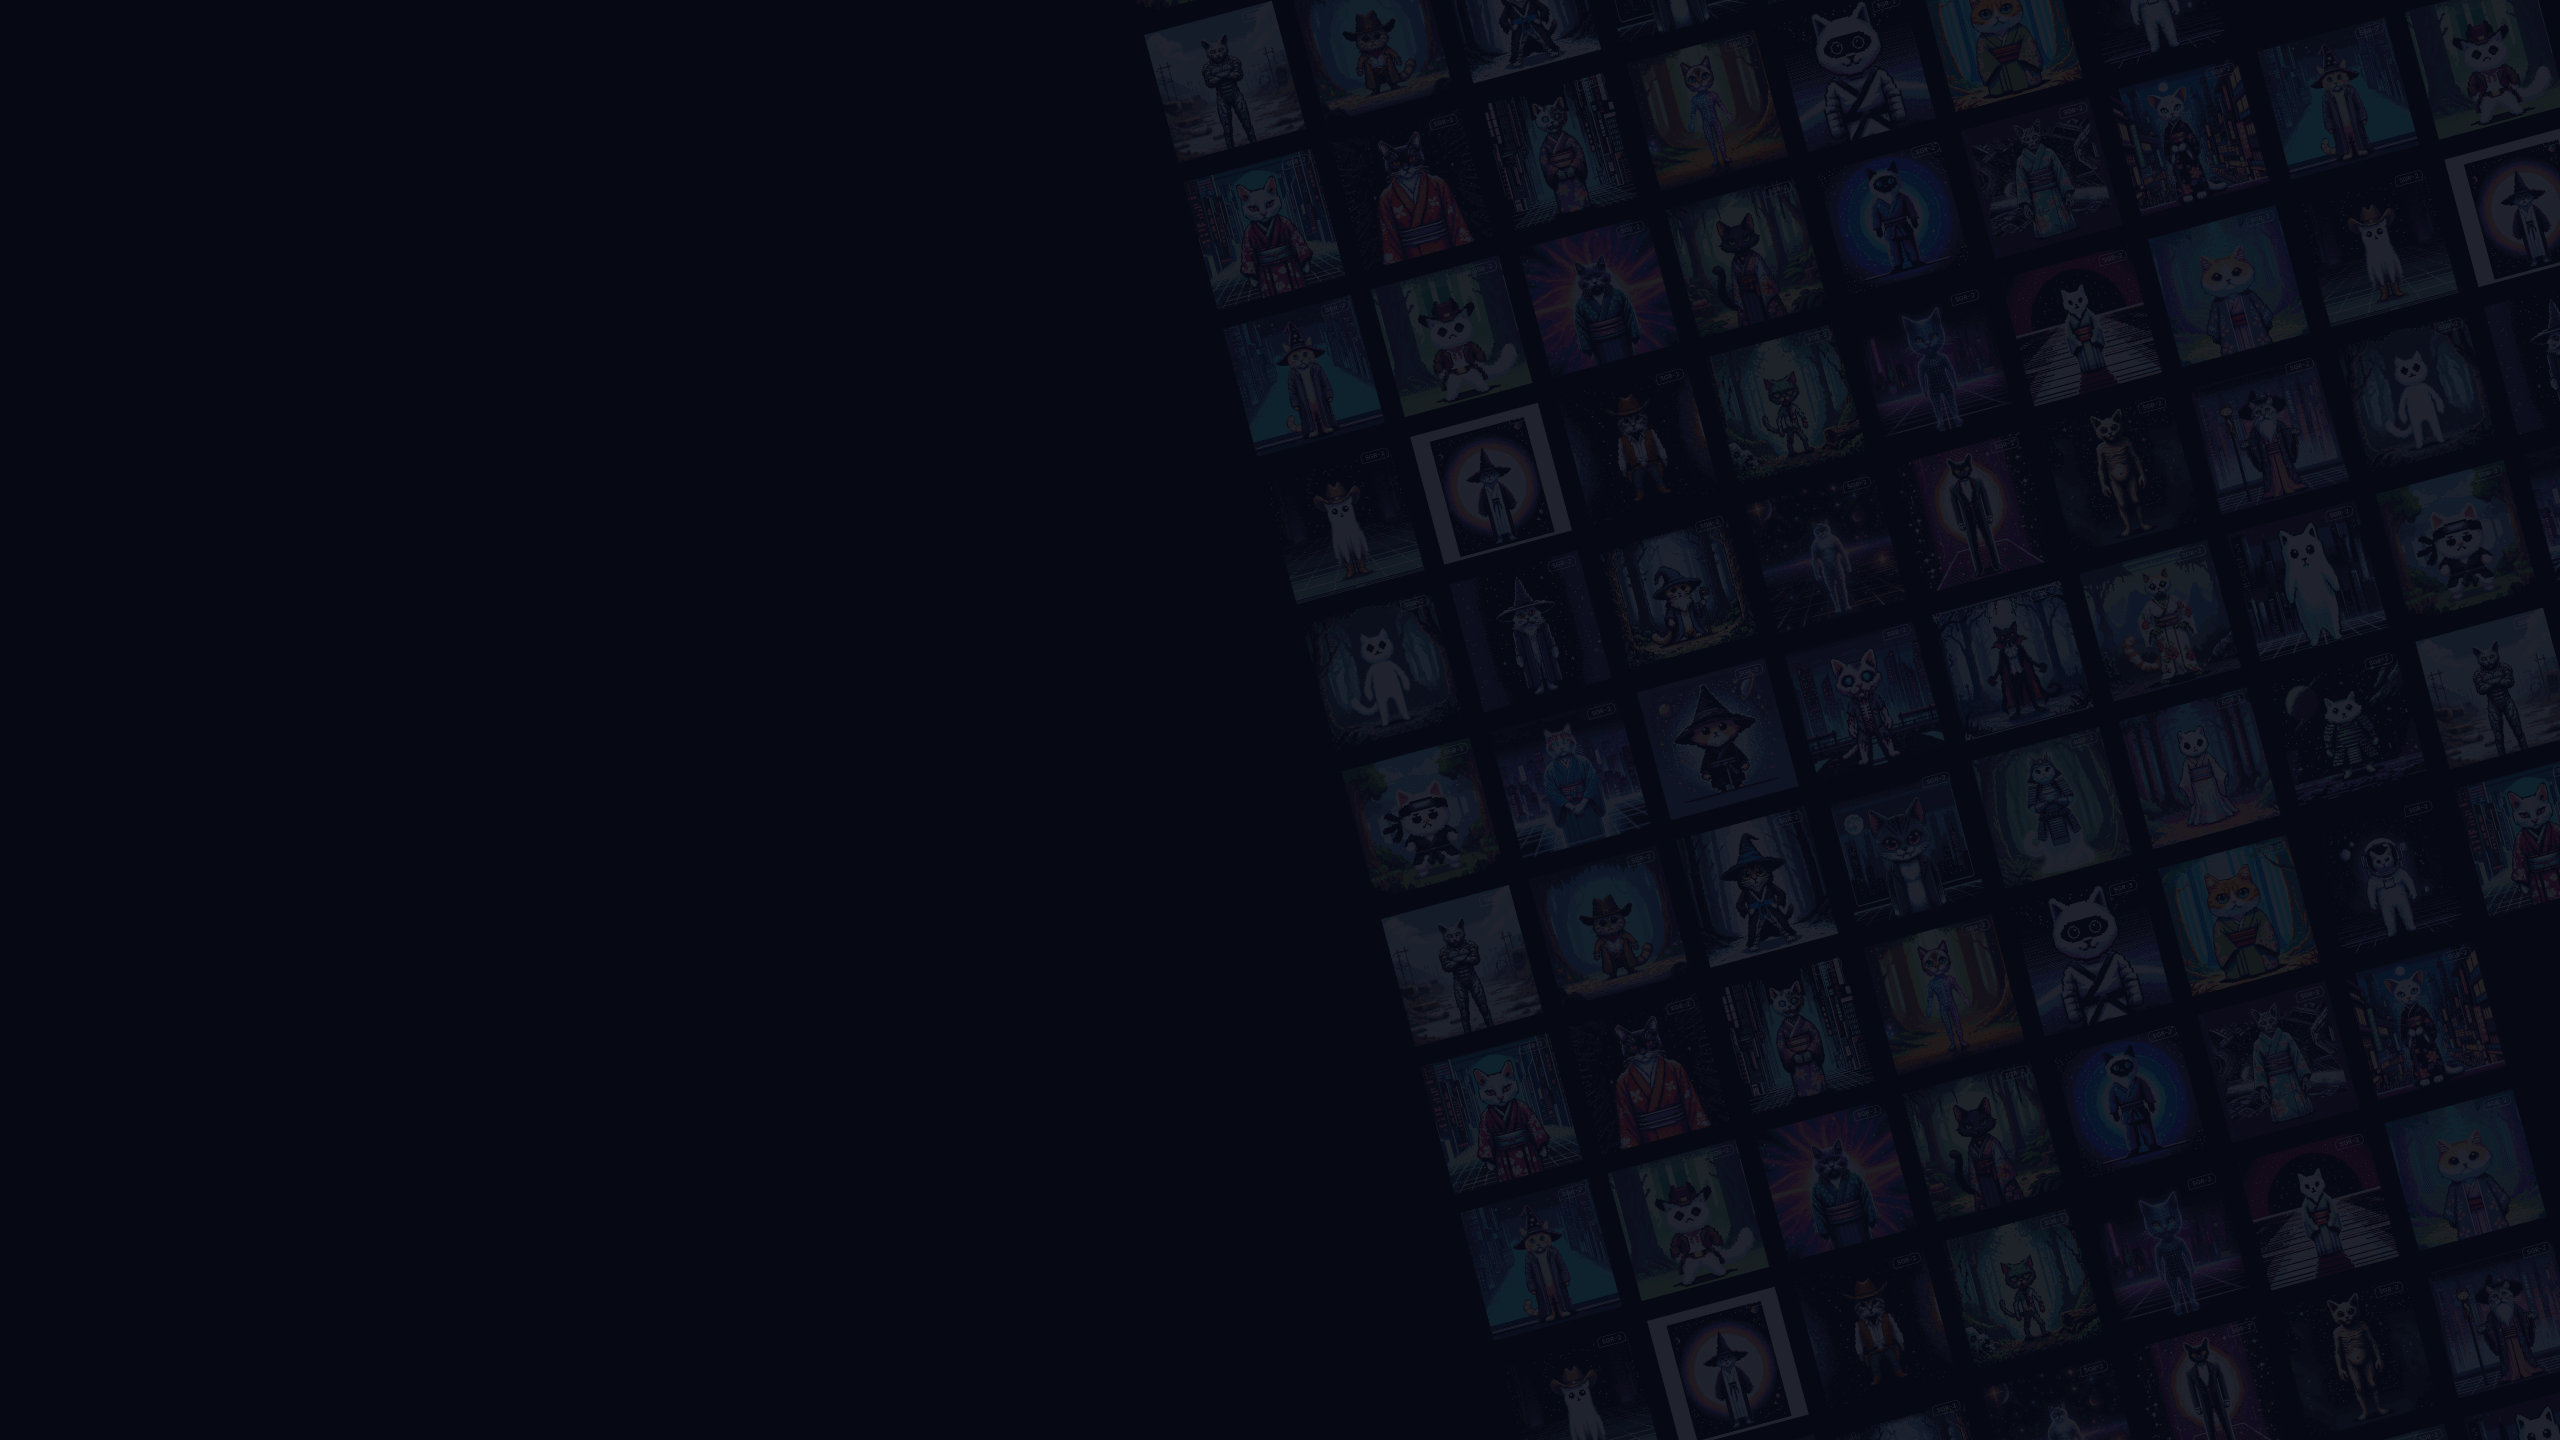
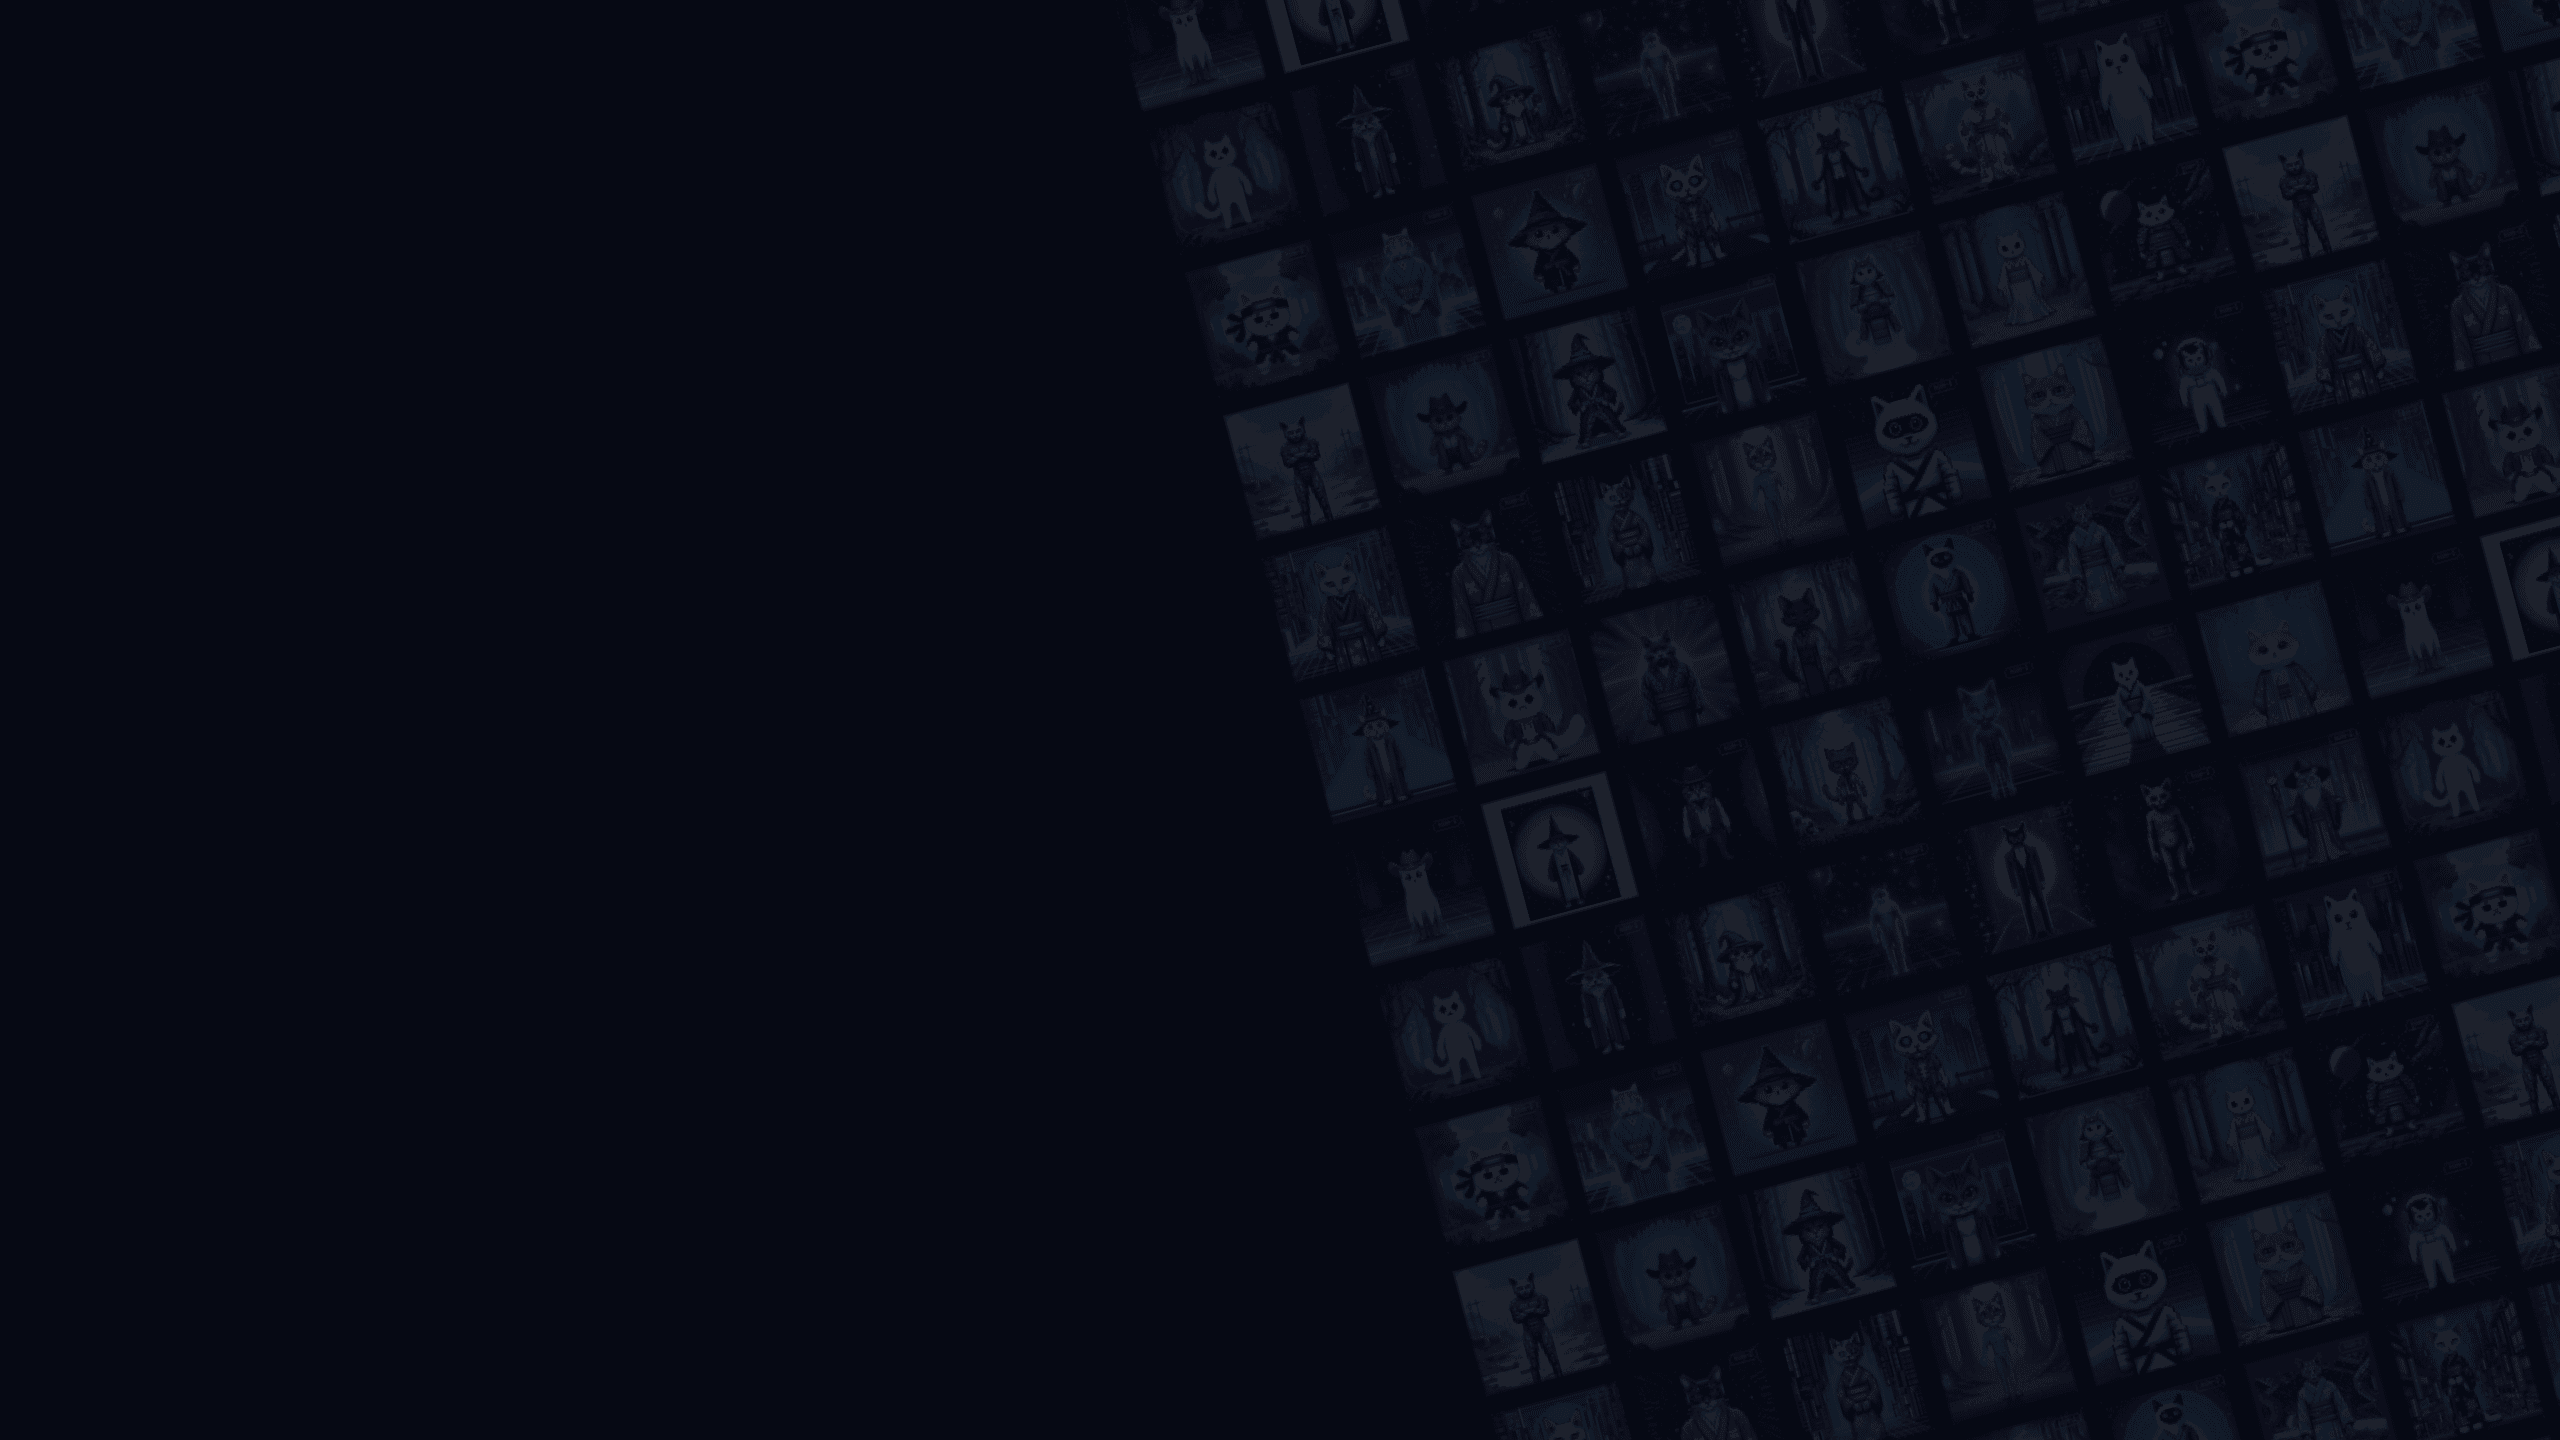
feat: 🎸 add background image pre-rendering

diff --git a/src/components/JoinModal/index.tsx b/src/components/JoinModal/index.tsx
@@ -7,6 +7,7 @@ import { getAdoptErrorMessage } from 'hooks/Adopt/getErrorMessage';
 import { singleMessage } from '@portkey/did-ui-react';
 import styles from './index.module.css';
 import clsx from 'clsx';
+import { joinContent, joinTitle } from 'constants/joinMessage';
 
 interface IProps {
   buttonInfo?: {
@@ -68,7 +69,7 @@ function JoinModal({ buttonInfo, onCancel }: IProps) {
     <CommonModal
       title={
         <p className="flex flex-nowrap">
-          <span className="text-neutralTitle font-semibold text-xl lg:text-2xl">Welcome to Schrödinger</span>
+          <span className="text-neutralTitle font-semibold text-xl lg:text-2xl">{joinTitle}</span>
         </p>
       }
       width={500}
@@ -78,10 +79,7 @@ function JoinModal({ buttonInfo, onCancel }: IProps) {
       onCancel={onCancel || modal.hide}
       afterClose={modal.remove}
       footer={modalFooter}>
-      <div className="w-full h-full flex flex-col">
-        Schrödinger rewards users with Flux Points for their interactions with the platform. Click “Join” to calculate
-        your points.
-      </div>
+      <div className="w-full h-full flex flex-col">{joinContent}</div>
     </CommonModal>
   );
 }

diff --git a/src/pageComponents/layout.tsx b/src/pageComponents/layout.tsx
@@ -20,6 +20,7 @@ import { useResponsive } from 'hooks/useResponsive';
 import useGetCustomTheme from 'redux/hooks/useGetCustomTheme';
 import { isWeChatBrowser } from 'utils/isWeChatBrowser';
 import WeChatGuide from 'components/WeChatGuide';
+import { backgroundStyle } from 'provider/useNavigationGuard';
 
 const Layout = dynamic(async () => {
   const { useWebLogin, useCallContract } = await import('aelf-web-login').then((module) => module);
@@ -121,6 +122,16 @@ const Layout = dynamic(async () => {
         ) : (
           <>{children}</>
         )}
+        <div
+          className={clsx(
+            'w-[100vw] h-[100vh] absolute top-0 left-0 !bg-cover bg-center bg-no-repeat z-[-1000]',
+            backgroundStyle.invitee,
+          )}></div>
+        <div
+          className={clsx(
+            'w-[100vw] h-[100vh] absolute top-0 left-0 !bg-cover bg-center bg-no-repeat z-[-1000]',
+            backgroundStyle.referral,
+          )}></div>
         {isWeChatBrowser() && <WeChatGuide />}
       </>
     );

diff --git a/src/pageComponents/invitee/useAccountModal.ts b/src/pageComponents/invitee/useAccountModal.ts
@@ -5,6 +5,7 @@ import { useCallback } from 'react';
 import { AcceptReferral } from 'contract/schrodinger';
 import { store } from 'redux/store';
 import { setIsJoin } from 'redux/reducer/info';
+import { joinContent, joinTitle, joinButton } from 'constants/joinMessage';
 
 export default function useAccountModal() {
   const modal = useModal(AccountModal);
@@ -14,9 +15,9 @@ export default function useAccountModal() {
   const newUser = useCallback(() => {
     modal.show({
       showLoading: true,
-      title: 'Accept Invitation',
-      content: 'Accept the invitation and join Schrödinger now to earn Flux Points for your interactions.',
-      btnText: 'Accept',
+      title: joinTitle,
+      content: joinContent,
+      btnText: joinButton,
       onOk: async () => {
         const referrerAddress = urlSearchParams.get('referrer') || '';
         console.log('referrer', referrerAddress);

diff --git a/src/provider/useNavigationGuard.ts b/src/provider/useNavigationGuard.ts
@@ -7,7 +7,7 @@ import { CustomThemeType } from 'redux/types/reducerTypes';
 const needHideMenu = ['/invitee'];
 const needSetUpCustomTheme = ['/referral', '/invitee'];
 
-const backgroundStyle: Record<string, string> = {
+export const backgroundStyle: Record<string, string> = {
   invitee: 'bg-[url(../assets/img/referral/invitee.png)]',
   referral: 'bg-[url(../assets/img/referral/inviter.png)]',
 };

diff --git a/src/constants/joinMessage.ts b/src/constants/joinMessage.ts
@@ -1,0 +1,4 @@
+export const joinTitle = 'Welcome to Schrödinger';
+export const joinContent =
+  'Schrödinger rewards users with Flux Points for their interactions with the platform. Click “Join” to calculate your points.';
+export const joinButton = 'Join';
